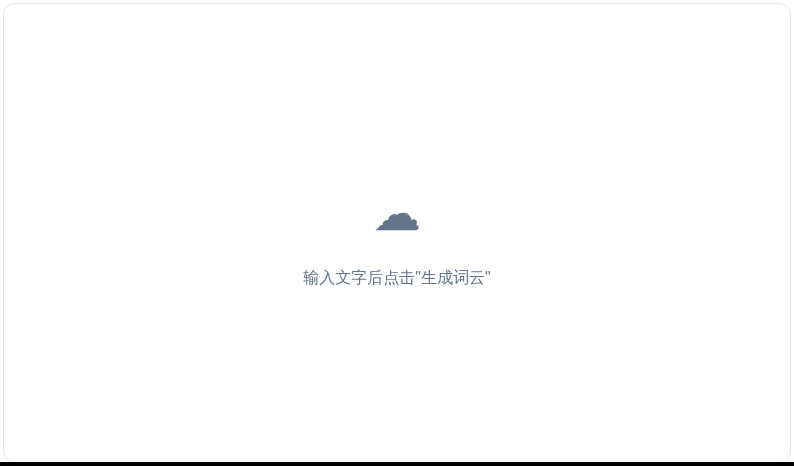
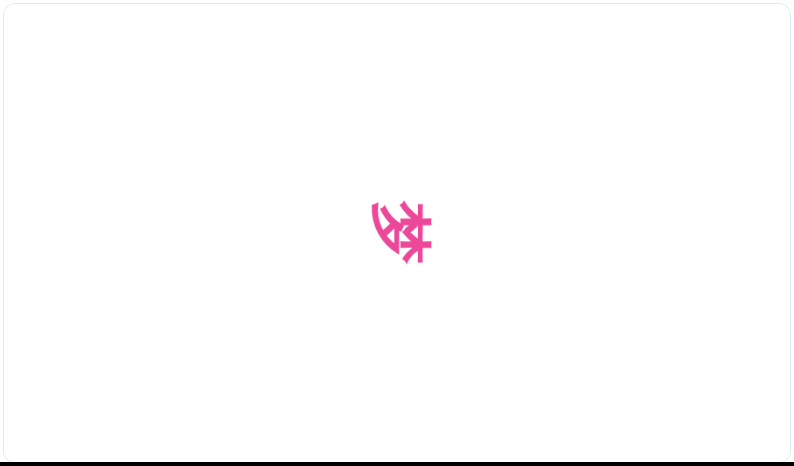
🤖 福彩3D预测自动更新（含冷号3胆）2026-09-12 11:26

Changed region(s): [[0.3627, 0.4206, 0.6045, 0.6309]]

diff --git a/js/tools.js b/js/tools.js
@@ -15,7 +15,7 @@ const TOOLS = [
       <div class="tool-card">
         <div class="input-group">
           <label>输入文本</label>
-          <textarea id="wc-input" placeholder="在此输入或粘贴文本..." oninput="wordCount()"></textarea>
+          <textarea id="wc-count-input" placeholder="在此输入或粘贴文本..." oninput="wordCount()"></textarea>
         </div>
         <div class="stats-row" id="wc-stats">
           <div class="stat-item">字数: <strong id="wc-words">0</strong></div>
@@ -25,7 +25,7 @@ const TOOLS = [
           <div class="stat-item">段落: <strong id="wc-paras">0</strong></div>
         </div>
         <div class="btn-group">
-          <button class="btn btn-secondary" onclick="document.getElementById('wc-input').value='';wordCount()">清空</button>
+          <button class="btn btn-secondary" onclick="document.getElementById('wc-count-input').value='';wordCount()">清空</button>
         </div>
       </div>
     `,
@@ -3571,7 +3571,7 @@ openclaw update</code></pre>
       <div class="tool-card">
         <div class="input-group">
           <label>输入文字</label>
-          <textarea id="wc-input" style="min-height:140px;" placeholder="输入或粘贴文字，支持中英文。例：&#10;梦想 未来 奋斗 梦想 科技 未来 创新 梦想 学习 进步 科技 未来 奋斗 坚持 梦想"></textarea>
+          <textarea id="wc-text" style="min-height:140px;" placeholder="输入或粘贴文字，支持中英文。例：&#10;梦想 未来 奋斗 梦想 科技 未来 创新 梦想 学习 进步 科技 未来 奋斗 坚持 梦想"></textarea>
         </div>
         <div class="row" style="gap:12px;align-items:center;flex-wrap:wrap;">
           <div class="input-group" style="flex:1;min-width:140px;">
@@ -6109,6 +6109,76 @@ greet('世界');</textarea>
       </div>
     `,
     handler: () => { setTimeout(prInit, 50); }
+  },
+  {
+    id: 'typing-speed',
+    cat: 'edu',
+    icon: '⌨',
+    name: '打字速度测试',
+    desc: '灵感来源于 TypingTest / 10FastFingers / Ratatype（付费会员），随机中英文词组、30/60/120秒限时测试，实时统计 WPM/CPM 速度与准确率，最佳成绩本地保存，练习键盘指法必备',
+    html: `
+      <div class="tool-card">
+        <div class="row" style="margin-bottom:12px;gap:8px;align-items:center;flex-wrap:wrap;">
+          <label style="font-size:13px;">词库</label>
+          <select id="ts-lang" style="flex:1;min-width:110px;">
+            <option value="en" selected>英文高频词</option>
+            <option value="zh">中文常用词</option>
+          </select>
+          <label style="font-size:13px;">时长</label>
+          <select id="ts-time" style="flex:1;min-width:90px;">
+            <option value="30">30 秒</option>
+            <option value="60" selected>60 秒</option>
+            <option value="120">120 秒</option>
+          </select>
+          <button class="btn btn-primary" onclick="tsStart()">🚀 开始测试</button>
+        </div>
+        <div id="ts-stats" style="display:flex;gap:18px;flex-wrap:wrap;margin-bottom:12px;font-size:14px;padding:10px 14px;border:1px solid var(--border);border-radius:10px;background:var(--bg);">
+          <span>⏱ 剩余 <b id="ts-left">0</b>s</span>
+          <span>⚡ 速度 <b id="ts-wpm">0</b> WPM</span>
+          <span>🎯 准确率 <b id="ts-acc">100%</b></span>
+          <span>❌ 错误 <b id="ts-err">0</b> 词</span>
+          <span>🏆 最佳 <b id="ts-best">--</b> WPM</span>
+        </div>
+        <div id="ts-target" style="font-size:20px;line-height:2.2;letter-spacing:1px;padding:16px;border:1px solid var(--border);border-radius:10px;background:var(--bg);min-height:110px;margin-bottom:12px;color:var(--text-light);"></div>
+        <input type="text" id="ts-input" placeholder="🚀 点击「开始测试」后在此打字，空格键提交当前词..." autocomplete="off" spellcheck="false" style="width:100%;padding:12px;border:1px solid var(--border);border-radius:10px;background:var(--bg);color:var(--text);font-size:16px;" disabled>
+        <div style="margin-top:8px;font-size:12px;color:var(--text-light);text-align:center;">💡 灵感来源于 TypingTest / 10FastFingers / Ratatype；WPM = 正确字符 ÷ 5 ÷ 分钟数，测试结束自动结算并记录最佳成绩，纯本地运行</div>
+      </div>
+    `,
+    handler: () => { setTimeout(tsInit, 50); }
+  },
+  {
+    id: 'vcard-maker',
+    cat: 'text',
+    icon: '📇',
+    name: '电子名片生成器',
+    desc: '灵感来源于 HiHello / Blinq / 名片全能王（付费会员），填写姓名职位联系方式，实时预览数字名片，一键导出 vCard(.vcf) 导入手机通讯录或复制文本，商务社交加好友神器',
+    html: `
+      <div class="tool-card">
+        <div class="row" style="margin-bottom:12px;gap:8px;align-items:center;flex-wrap:wrap;">
+          <input type="text" id="vc-name" placeholder="姓名 *" style="flex:1;min-width:140px;">
+          <input type="text" id="vc-title" placeholder="职位" style="flex:1;min-width:140px;">
+          <input type="text" id="vc-company" placeholder="公司" style="flex:1;min-width:140px;">
+        </div>
+        <div class="row" style="margin-bottom:12px;gap:8px;align-items:center;flex-wrap:wrap;">
+          <input type="tel" id="vc-phone" placeholder="手机号" style="flex:1;min-width:120px;">
+          <input type="email" id="vc-email" placeholder="邮箱" style="flex:1;min-width:190px;">
+          <input type="url" id="vc-site" placeholder="网站/主页" style="flex:1;min-width:190px;">
+        </div>
+        <div class="row" style="margin-bottom:12px;gap:8px;align-items:center;flex-wrap:wrap;">
+          <input type="text" id="vc-addr" placeholder="地址（可选）" style="flex:2;min-width:200px;">
+          <label style="font-size:13px;">头像色</label>
+          <input type="color" id="vc-color" value="#6366f1" style="flex:0 0 46px;height:38px;padding:2px;">
+        </div>
+        <div id="vc-preview" style="margin-bottom:12px;"></div>
+        <div class="row" style="gap:8px;align-items:center;flex-wrap:wrap;margin-bottom:12px;">
+          <button class="btn btn-primary" onclick="vcGenerate()">📇 生成并导出 .vcf</button>
+          <button class="btn btn-secondary" onclick="vcCopy()">📋 复制 vCard 文本</button>
+        </div>
+        <textarea id="vc-output" style="width:100%;min-height:110px;display:none;border:1px solid var(--border);border-radius:8px;background:var(--bg);color:var(--text);font-family:monospace;font-size:12px;padding:10px;" readonly placeholder="vCard 内容将显示在这里"></textarea>
+        <div style="margin-top:8px;font-size:12px;color:var(--text-light);text-align:center;">💡 灵感来源于 HiHello / Blinq / 名片全能王；生成标准 vCard(.vcf) 可导入手机通讯录，预览与导出全在本地完成，不上传资料</div>
+      </div>
+    `,
+    handler: () => { setTimeout(vcInit, 50); }
   }
 ];
 
@@ -6890,7 +6960,7 @@ function wcSplit(text) {
 }
 
 function wcGenerate() {
-  var text = document.getElementById('wc-input').value.trim();
+  var text = document.getElementById('wc-text').value.trim();
   if (!text) { showToast('⚠ 请先输入文字'); return; }
   var words = wcSplit(text);
   if (words.length === 0) { showToast('⚠ 未识别到有效词语'); return; }
@@ -6927,7 +6997,7 @@ function wcGenerate() {
     if (shape === 'circle') return r <= 1;
     if (shape === 'diamond') return Math.abs(dx) + Math.abs(dy) <= 1;
     if (shape === 'heart') {
-      var nx = (x - cx) / 34, ny = (y - cy) / 34;
+      var nx = (x - cx) / 150, ny = (y - cy) / 150;
       if (nx < -3.5 || nx > 3.5 || ny < -2.5 || ny > 2.8) return false;
       var val = Math.pow(nx * nx + ny * ny - 1, 3) - nx * nx * ny * ny * ny;
       return val <= 0;

diff --git a/js/main.js b/js/main.js
@@ -212,7 +212,7 @@ function searchTools() {
 
 // ---- 字数统计 ----
 function wordCount() {
-  const text = document.getElementById('wc-input').value;
+  const text = document.getElementById('wc-count-input').value;
   document.getElementById('wc-words').textContent = text ? text.match(/\S+/g)?.length || 0 : 0;
   document.getElementById('wc-chars').textContent = text.length;
   document.getElementById('wc-chars-ns').textContent = text.replace(/\s/g, '').length;
